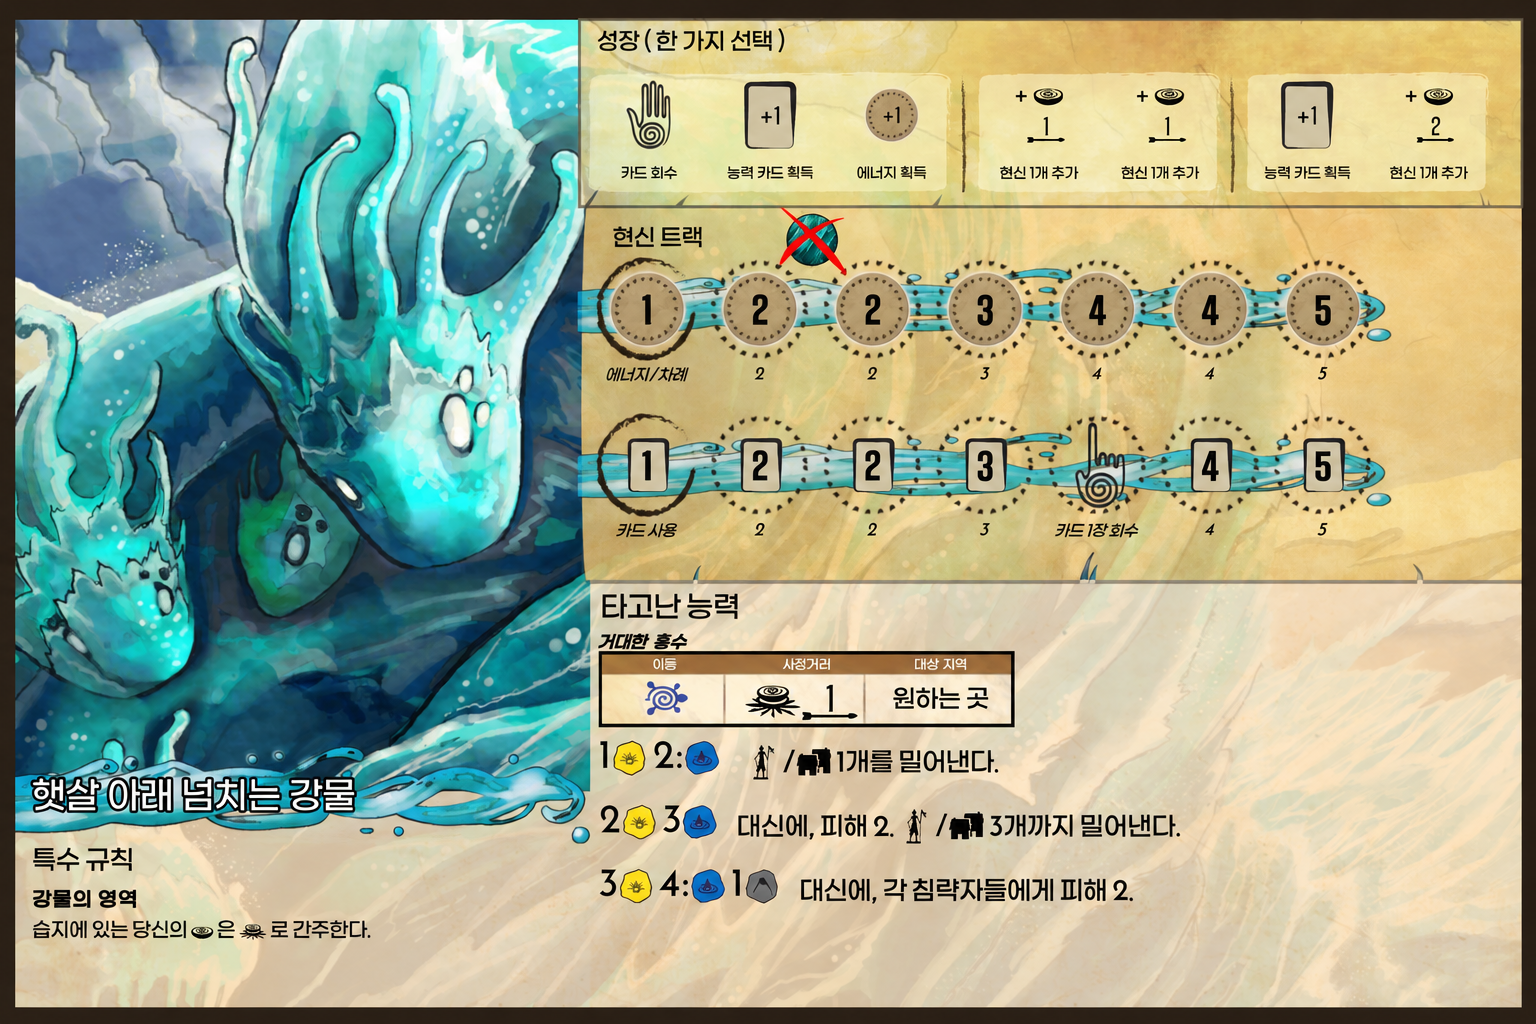
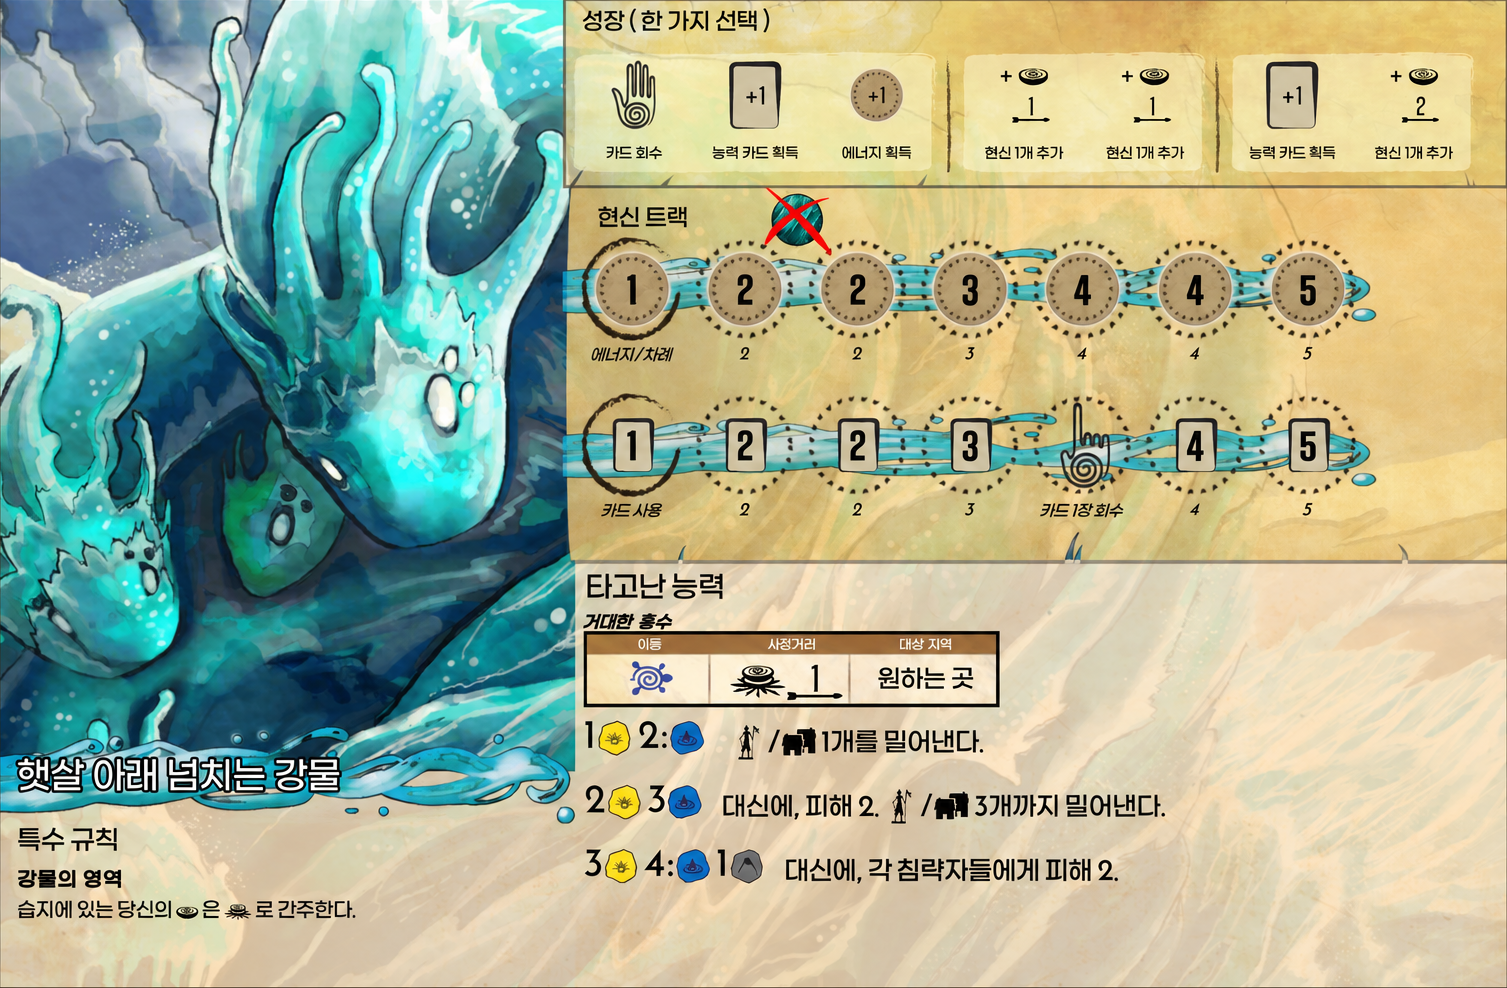
Add files via upload

diff --git a/spirits/river/river.js b/spirits/river/river.js
@@ -8,25 +8,27 @@
 (function (global) {
   'use strict';
 
-  const WIDTH = 1536;
-  const HEIGHT = 1024;
+  const WIDTH = 1507;
+  const HEIGHT = 988;
   const DIAMETER = 86;
   const scriptUrl = document.currentScript && document.currentScript.src;
-  const defaultImageUrl = new URL('./river.webp', scriptUrl || document.baseURI).href;
-  const columns = [760, 872, 985, 1098, 1211, 1324];
+  const defaultImageUrl = new URL('./river.webp?v=2', scriptUrl || document.baseURI).href;
+  const thumbnailUrl = new URL('./river-banner.webp?v=2', scriptUrl || document.baseURI).href;
+  // 외곽 크롭(왼쪽 15px, 위쪽 20px)을 좌표에도 동일하게 반영합니다.
+  const columns = [745, 857, 970, 1083, 1196, 1309];
   const energyLabels = ['에너지 2', '에너지 2', '에너지 3', '에너지 4', '에너지 4', '에너지 5'];
   const cardLabels = ['카드 사용 2', '카드 사용 2', '카드 사용 3', '카드 1장 회수', '카드 사용 4', '카드 사용 5'];
 
   // 첫 번째 칸(에너지 1 / 카드 사용 1)은 항상 공개되어 있으므로 버튼을 만들지 않습니다.
   // 좌표는 원본 이미지 기준이며 실제 버튼 배치에는 %로 변환합니다.
   const slots = Object.freeze([
-    ...columns.map((x, i) => Object.freeze({ id: `energy-${i + 1}`, track: 'energy', x, y: 310, label: energyLabels[i] })),
-    ...columns.map((x, i) => Object.freeze({ id: `cards-${i + 1}`, track: 'cards', x, y: 465, label: cardLabels[i] })),
+    ...columns.map((x, i) => Object.freeze({ id: `energy-${i + 1}`, track: 'energy', x, y: 290, label: energyLabels[i] })),
+    ...columns.map((x, i) => Object.freeze({ id: `cards-${i + 1}`, track: 'cards', x, y: 445, label: cardLabels[i] })),
   ]);
 
   const tokenMarkup = '<svg viewBox="0 0 100 100" aria-hidden="true" focusable="false"><circle cx="50" cy="50" r="43" fill="none" stroke="currentColor" stroke-width="2" opacity=".45"/><path d="M80 58C86 36 69 17 47 20C24 23 16 48 29 65C42 82 70 76 73 56C76 39 57 28 43 37C30 46 37 64 50 63C61 62 65 49 56 45C50 42 45 47 47 52" fill="none" stroke="currentColor" stroke-width="6" stroke-linecap="round"/></svg>';
   const css = `
-    .river-board { position:relative; width:100%; max-width:calc(100svh * ${WIDTH / HEIGHT}); aspect-ratio:${WIDTH}/${HEIGHT}; margin:auto; isolation:isolate; }
+    .river-board { position:relative; width:100%; max-width:calc(var(--board-available-height, 100svh) * ${WIDTH / HEIGHT}); aspect-ratio:${WIDTH}/${HEIGHT}; margin:auto; isolation:isolate; }
     .river-board__image { display:block; width:100%; height:100%; user-select:none; -webkit-user-select:none; -webkit-user-drag:none; }
     .river-board__slot { position:absolute; transform:translate(-50%,-50%); margin:0; padding:0; border:0; border-radius:50%; background:transparent; cursor:pointer; touch-action:manipulation; -webkit-tap-highlight-color:transparent; user-select:none; -webkit-user-select:none; appearance:none; -webkit-appearance:none; }
     .river-board__token { display:block; width:100%; height:100%; border-radius:50%; box-sizing:border-box; border:2px solid #063c3e; background:radial-gradient(circle at 32% 25%,#4ec8bc 0%,#197d7d 48%,#06434b 100%); color:#c3f4e6; box-shadow:0 2px 4px #001c2c80,inset 0 0 0 2px #7fddd661; pointer-events:none; }
@@ -124,6 +126,7 @@
     width: WIDTH,
     height: HEIGHT,
     imageUrl: defaultImageUrl,
+    thumbnailUrl,
     slots,
     mount,
   });
